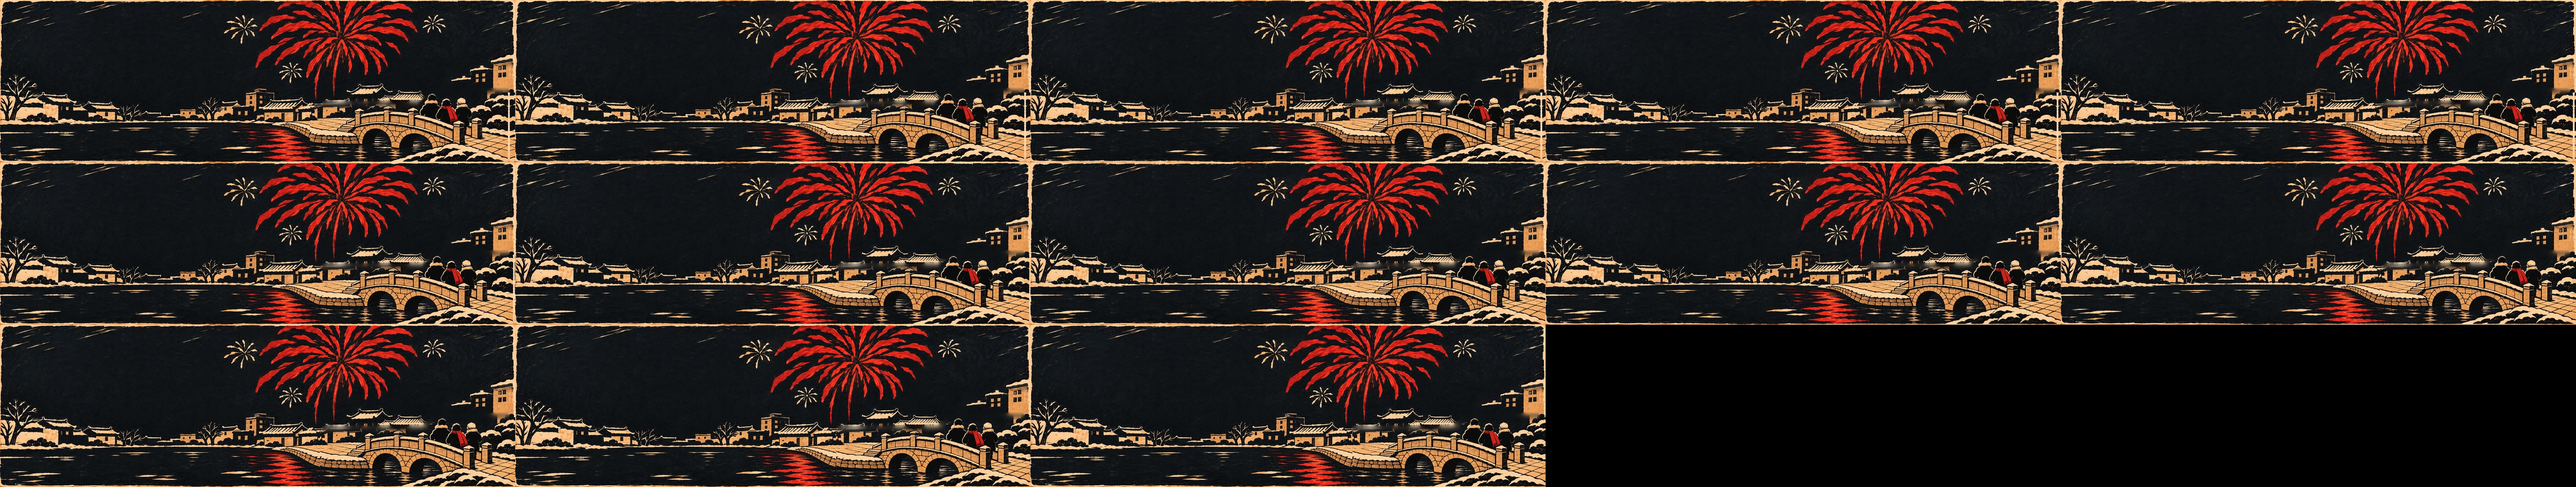
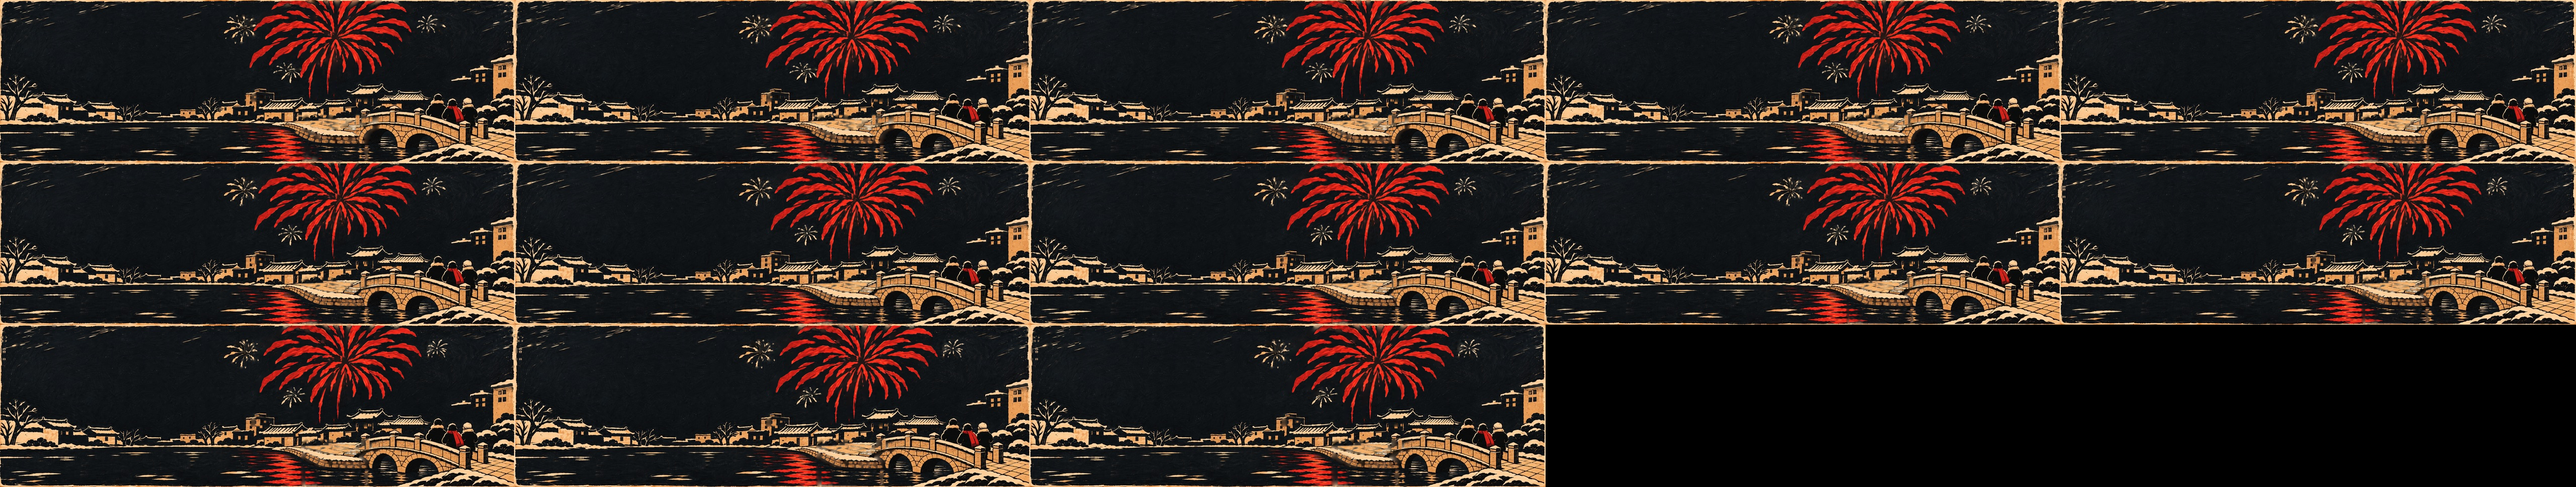
fix(app): 元旦图集 v22——桥不动，只动烟花
Li 定：桥别动，就动烟花。图集模型反过来：structure 层改成烟花
（大红烟花＋小白烟花＋河面红倒影，按颜色＋空间窗提取，围巾/楼墙
暖色/水面窗光均已排除），far 层是其余全部静止。实测左镇＋右桥石
＋行人帧 0 vs 帧 12 差 0.0、烟花区最佳对齐 dx=-24。
余烬是烟花的火星，跟烟花同速（structureX 12*depth），不再用
主体速率 24*depth。

diff --git a/ios/App/App/BearyProfileCoverView.swift b/ios/App/App/BearyProfileCoverView.swift
@@ -413,15 +413,15 @@ public final class ProfileCoverView: UIView {
     /// 元旦（中式木刻版画、深蓝夜＋金色烟花）：图集只含背景，余烬由动态物层单独贴；
     /// 彩蛋一张是与第 7 帧对齐的整帧透明层（左上夜空一朵金色烟花，中心 (300, 65)）。
     /// 坐标全按帧坐标（1024×323）算、再乘 padded 的拉伸比换到画布坐标，与 drawBackdrop 同一套映射。
-    /// 视差翻倍版：帧 f 结构平移 2(f−6) px（±12）、主体平移 4(f−6) px（±24）。
+    /// v22 模型：只动烟花——图集结构层就是烟花（大红烟花＋小白烟花＋河面倒影），
+    /// 帧 f 平移 2(f−6) px（±12）；桥/小镇/行人/河面全在 far 层静止。
+    /// 余烬是烟花的火星，跟烟花同速（structureX），不再用主体速率 24*depth。
     private func drawNewyear(_ ctx: CGContext, depth: CGFloat, vertical: CGFloat, padded: CGRect) {
         let scaleX = padded.width / 1024
         let scaleY = padded.height / 323
         // 结构层位移与图集帧内 baked 的一致（帧 f 结构平移 2(f−6) px，f=(depth+1)*6，
-        // 即 12*depth）；彩蛋层按它平移才贴得住烟花中心。主体层（余烬）
-        // 平移 4(f−6) px，即 24*depth。
+        // 即 12*depth）；彩蛋层与余烬层按它平移才贴得住烟花。
         let structureX = 12 * depth * scaleX
-        let subjectX = 24 * depth * scaleX
         // 彩蛋：左上夜空一朵金色烟花，倾斜保持 0.45 秒后随 egg 淡入（触发走共享
         // step 逻辑，与圣诞同款；每次进页 restartVisit 可再触发）。
         if egg > 0.001 {
@@ -430,9 +430,9 @@ public final class ProfileCoverView: UIView {
                    width: padded.width, height: padded.height, angle: 0, alpha: egg)
         }
         // 余烬动态物：PNG 左上角对帧坐标 (212, 0)、600×323，中心即帧中心
-        // (512, 161.5)；padded.midY 已含 vertical，不再另加。
+        // (512, 161.5)；padded.midY 已含 vertical，不再另加。跟烟花同速 structureX。
         bitmap("newyear-embers", in: ctx,
-               center: CGPoint(x: padded.midX + subjectX, y: padded.midY),
+               center: CGPoint(x: padded.midX + structureX, y: padded.midY),
                width: 600 * scaleX, height: 323 * scaleY, angle: 0, alpha: 1)
     }
 
